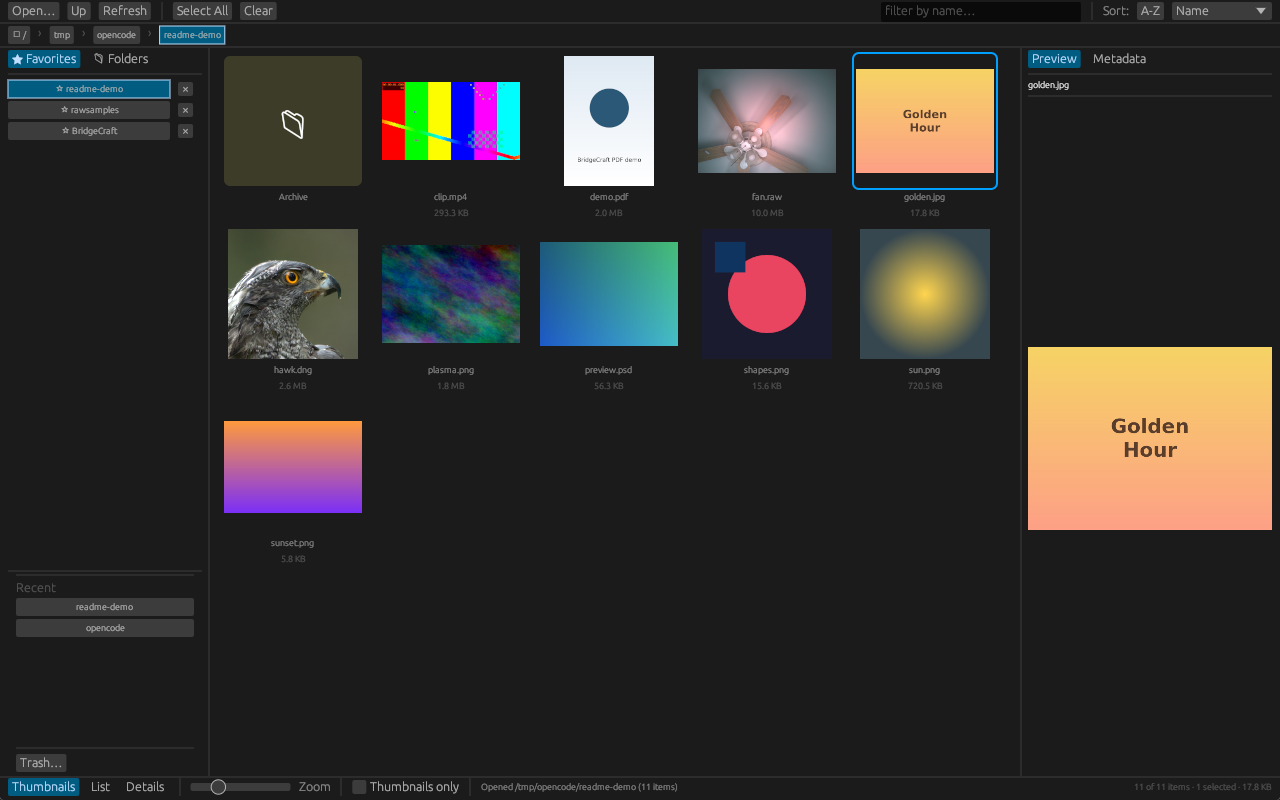
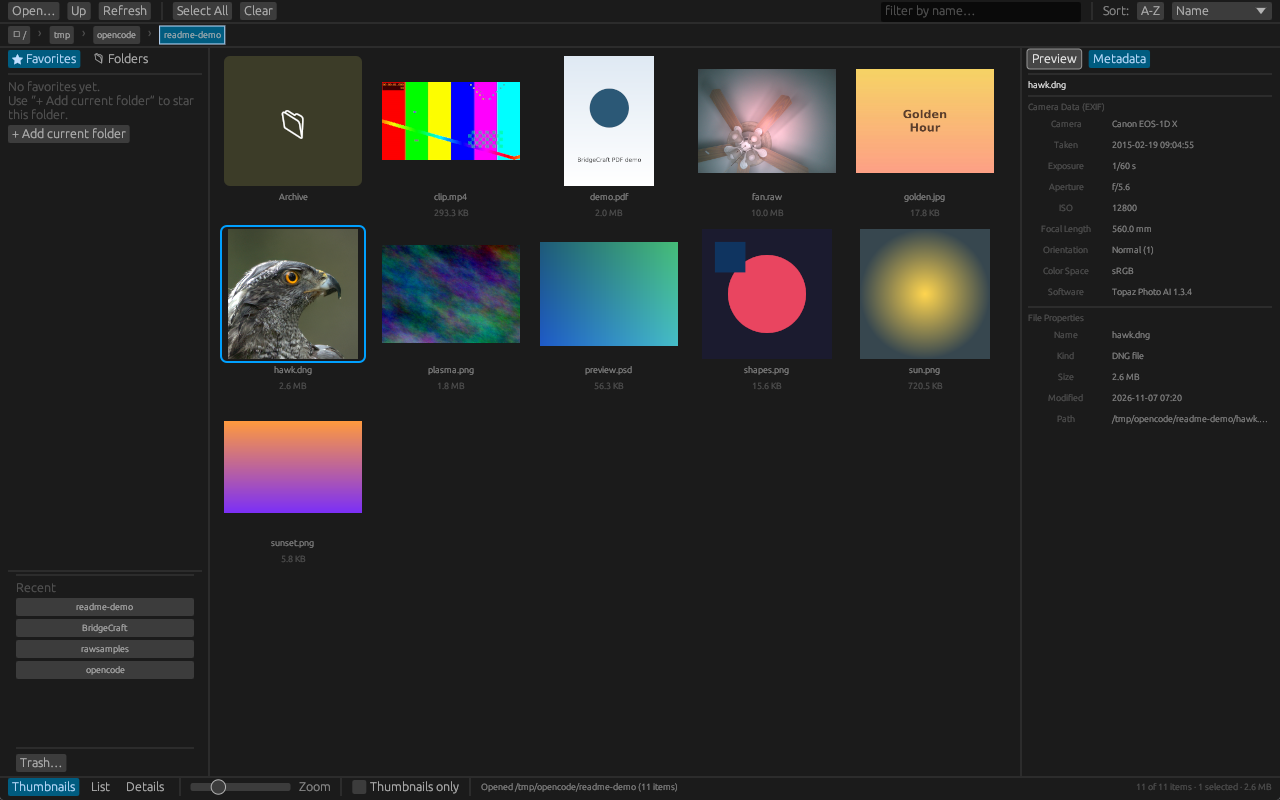
docs: record Phase 3 kickoff — EXIF read shipped, refreshed hero screenshot
- ROADMAP: Phase 3 now ◐ started; tick EXIF reading (issue #6) and the
  Metadata panel; note the interim flat-map keys while #5 is open
- README: Metadata row in the feature table, updated bc-metadata crate
  line, and the hero screenshot now shows the selected-file EXIF panel
  (Canon EOS-1D X capture data read from a real DNG)

diff --git a/README.md b/README.md
@@ -14,7 +14,7 @@ A clean-room, from-scratch asset browser inspired by the workflows of classic di
 
 </div>
 
-![BridgeCraft workspace: favorites sidebar, thumbnail grid, and preview panel](docs/screenshots/workspace.png)
+![BridgeCraft workspace: favorites sidebar, thumbnail grid, and EXIF metadata panel](docs/screenshots/workspace.png)
 
 > **Status:** pre-1.0, under active development. Foundations (Phase 0) and thumbnails & previews (Phase 2) are **complete**; the browsing core (Phase 1) is done with hardening in progress, now on a new Bridge-style workspace shell. There are no installers yet — build from source (below). Phase 3 (metadata) and Phase 4 (batch operations) are open for contributors: see the [issue backlog](https://github.com/cmspeedau/BridgeCraft/issues/19).
 
@@ -26,6 +26,7 @@ A clean-room, from-scratch asset browser inspired by the workflows of classic di
 | **Views** | Thumbnail grid with zoom slider, list, and details table; "thumbnails only" mode |
 | **Select** | Click / ctrl-toggle / shift-range / select-all; right-click menu with copy, move, rename, trash & restore, permanent-delete confirm |
 | **Previews** | Instant 256 px thumbnails; click any file for a live 2048 px preview in the side panel; double-click for the full zoom viewer (100% = on-demand native decode) |
+| **Metadata** | EXIF panel for the selected file — camera, taken, exposure, aperture, ISO, focal length, orientation, color space, software, pixel size, GPS (JPEG, TIFF/DNG, both byte orders) |
 | **Formats** | PNG, JPEG, TIFF, GIF, WebP, BMP, PSD (embedded previews), PDF-compatible AI — always; video, PDF, camera RAW when a local decoder is present (see below) |
 | **Speed** | SQLite thumbnail cache keyed by `(path, size-tier)`, invalidated on file change; virtualized grid; background decode worker |
 | **Live** | Watched folders auto-refresh; cache survives restarts; `--rebuild-cache` CLI for batch warm-up |
@@ -49,7 +50,7 @@ The zoom viewer escalates through three quality tiers: the grid thumbnail, a cac
 | Crate | Purpose |
 |---|---|
 | `bc-core` | Filesystem scanning, directory watching, selection model, favorites & recents, trash bin, file operations |
-| `bc-metadata` | EXIF / IPTC / XMP / sidecar read & write *(Phase 3 — in progress)* |
+| `bc-metadata` | EXIF read from JPEG / TIFF / DNG (both byte orders, Exif & GPS sub-IFDs) shipped; IPTC / XMP / sidecars & writing in progress |
 | `bc-thumbnails` | SQLite-backed cache plus decoders: `image` (PNG/JPEG/TIFF/GIF/WebP/BMP), PSD embedded previews, Illustrator, and runtime-bound ffmpeg / pdfium / LibRaw paths |
 | `bc-ui` | egui/eframe frontend: the workspace above, virtualized grids, the zoom viewer |
 

diff --git a/ROADMAP.md b/ROADMAP.md
@@ -48,9 +48,10 @@ A 1:1 clean-room reimplementation of Adobe Bridge in Rust.
 
 *Note: the phase is closed with that one item intentionally deferred — the metadata reader (Phase 3, #5/#6) is a hard dependency, and camera RAW already fast-paths the camera's embedded preview internally. It will be picked up as part of the metadata work in `#5–#19`.*
 
-## Phase 3 — Metadata Engine (Weeks 15–26) — NOT STARTED (skeleton only)
-- [~] `bc-metadata` crate skeleton exists with a `Reader` trait; real implementation pending (from open specs: CIPA EXIF, IPTC IIM4, ISO 16684-2 XMP)
-- [ ] Embedded metadata read/write: EXIF, IPTC-IIM, XMP
+## Phase 3 — Metadata Engine (Weeks 15–26) — ◐ started: EXIF read + metadata panel shipped (issue #6)
+- [x] EXIF reading in `bc-metadata`: pure-Rust TIFF/EXIF parser (JPEG `APP1` + TIFF/DNG containers), both byte orders, IFD0 + Exif + GPS sub-IFDs + thumbnail-IFD reference; IFD loops and absurd counts are `Malformed`, malformed input never panics; hand-built fixture tests plus a real-camera check gated behind `RAW_SAMPLE` (issue #6)
+- [x] Metadata panel: Camera Data (EXIF) section for the selected file — camera, taken, exposure, aperture, ISO, focal length, orientation, color space, software, EXIF size, GPS — above File Properties; cached per path + modified time
+- [~] Embedded metadata read/write: EXIF read done (interim flat-map keys `exif.*` / `gps.*` per issue #6, since #5 is still open); IPTC-IIM, XMP and all write paths pending
 - [ ] XMP sidecar read/write (`.xmp` files)
 - [ ] Metadata panel with editable fields
 - [ ] Custom metadata templates
